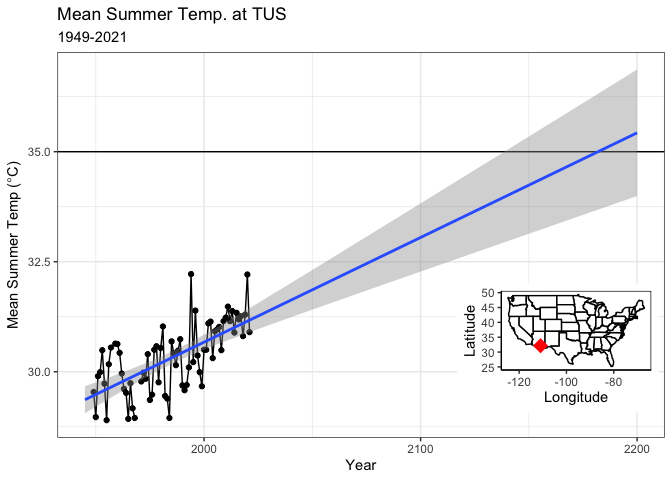
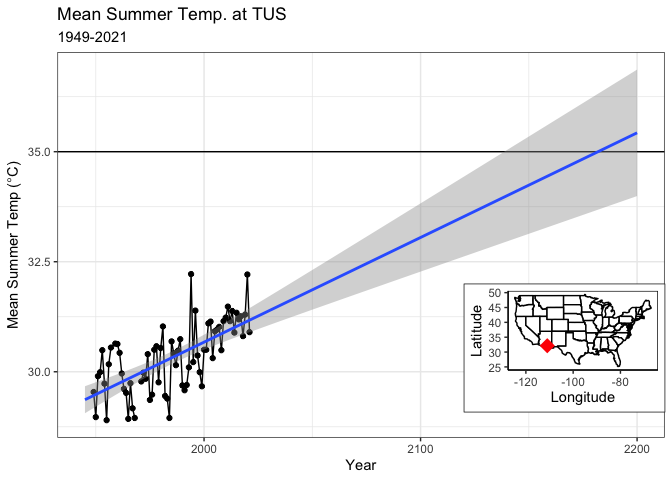
add better headings

Changed region(s): [[0.6875, 0.5625, 1.0, 0.875]]

diff --git a/scripts/Instructional_demo.md b/scripts/Instructional_demo.md
@@ -12,11 +12,13 @@ library(patchwork)
 library(cowplot)
 ```
 
-## Tucson Airport Temperature Data
+# Tucson Airport Temperature Data
 
 -   Average monthly temperature (Celsius) data from the Tucson Airport
 -   [Downloaded from
     NASA](https://data.giss.nasa.gov/cgi-bin/gistemp/stdata_show_v4.cgi?id=USW00023160&dt=1&ds=14)
+
+## Data
 
 ``` r
 tucson <- read_csv("../data/Tucson_Intl_Airport_WS.csv")
@@ -82,10 +84,12 @@ glimpse(tucson)
 
 That’s better!
 
-Now, let’s plot the summer data. This is when the temps are hottest. It
-is also monsoon season, so the humidity is higher. This *could* lead to
-“wet-bulb” temperatures of 35 C, which are extremely dangerous to
-humans.
+## Plotting
+
+Now, let’s plot the summer data (June, July, August). This is when the
+temps are hottest. It is also monsoon season, so the humidity is higher.
+This *could* lead to “wet-bulb” temperatures of 35 C, which are
+extremely dangerous to humans.
 
 ``` r
 ggplot(data = tucson, aes(x = Year, y = Summer)) +
@@ -114,6 +118,8 @@ ggplot(data = tucson, aes(x = Year, y = Summer)) +
 
 There’s a clear upward trend in temperatures, which makes sense.
 
+## Extrapolation
+
 Now let’s extrapolate. When does the average summer temperature become
 35 C?
 
@@ -140,6 +146,8 @@ temp
 ![](Instructional_demo_files/figure-gfm/unnamed-chunk-7-1.png)<!-- -->
 
 Looks to be around the year 2180.
+
+## Mapping
 
 Let’s make a map with Tucson highlighted so people know what location we
 are talking about.
@@ -169,6 +177,8 @@ map
 
 ![](Instructional_demo_files/figure-gfm/unnamed-chunk-8-1.png)<!-- -->
 
+## Combine them!
+
 We can plot these next to each other
 
 ``` r
@@ -181,15 +191,18 @@ plot
 Maybe better way to incorporate the map is as an insert?
 
 ``` r
+map <- map +
+  theme(plot.background = element_rect(color = "black", fill = "white"))
+
 # the ggdraw() and draw_plot() functions are from the `cowplot` package
 ggdraw() +
   draw_plot(temp) +
-  draw_plot(map, height = 0.3, width = 0.3, x = 0.68, y = 0.125)
+  draw_plot(map, height = 0.3, width = 0.3, x = 0.69, y = 0.125)
 ```
 
 ![](Instructional_demo_files/figure-gfm/unnamed-chunk-10-1.png)<!-- -->
 
-Other extrapolation analysis options: ARIMA
+## Other Extrapolation Option: ARIMA
 
 ``` r
 library(forecast)
